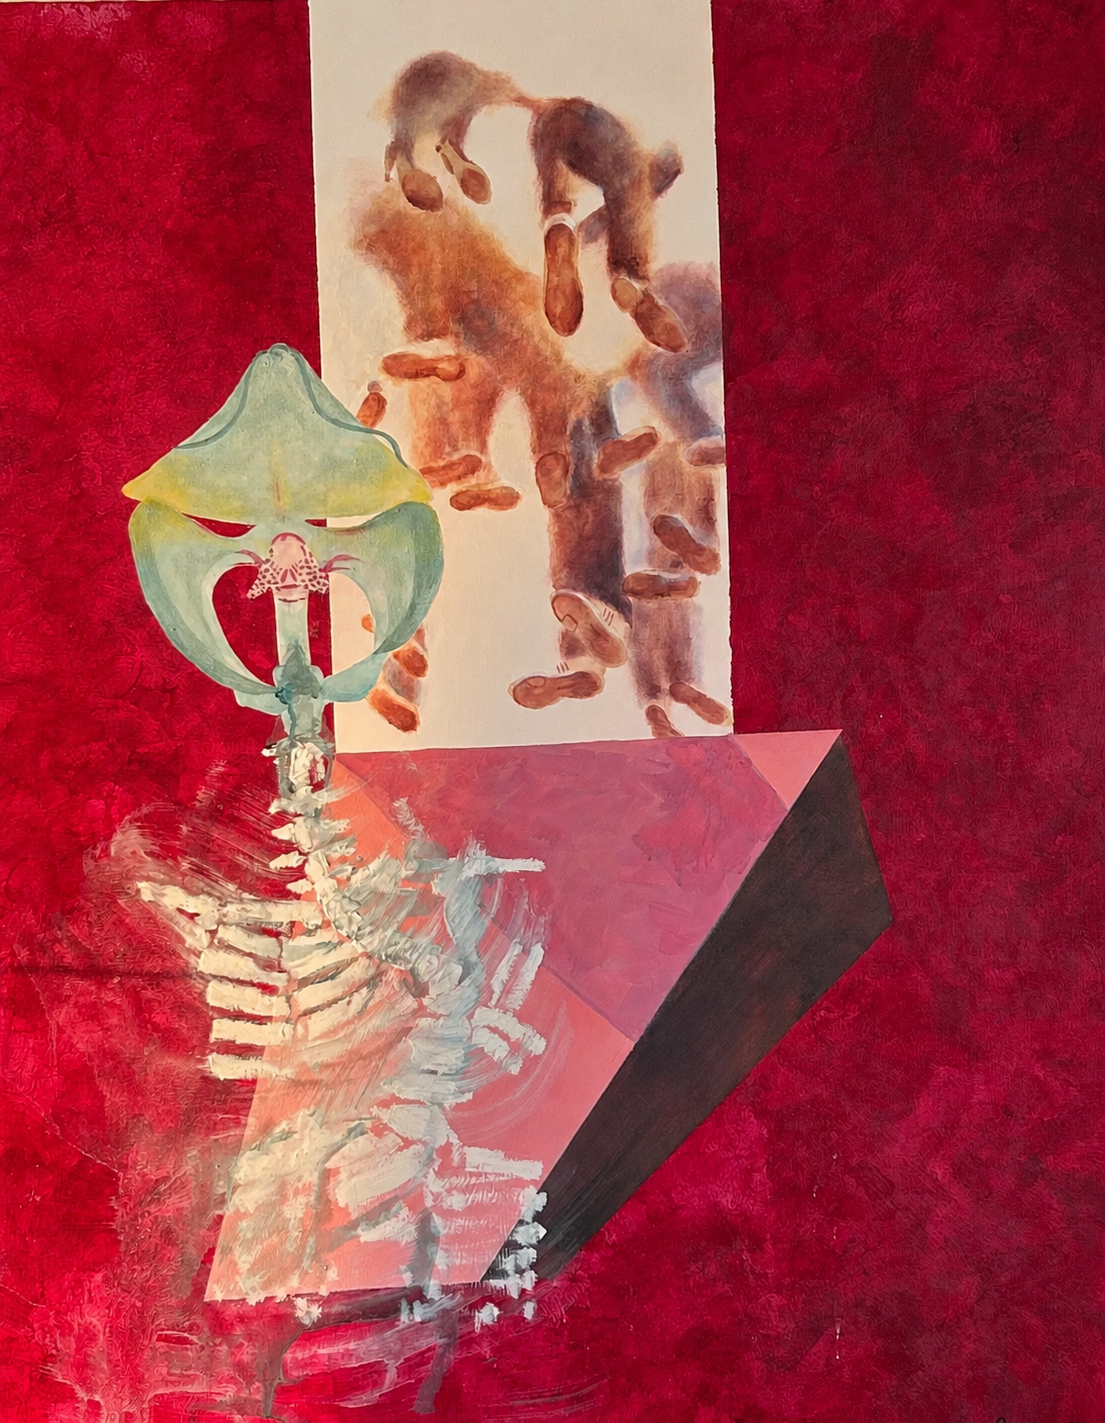
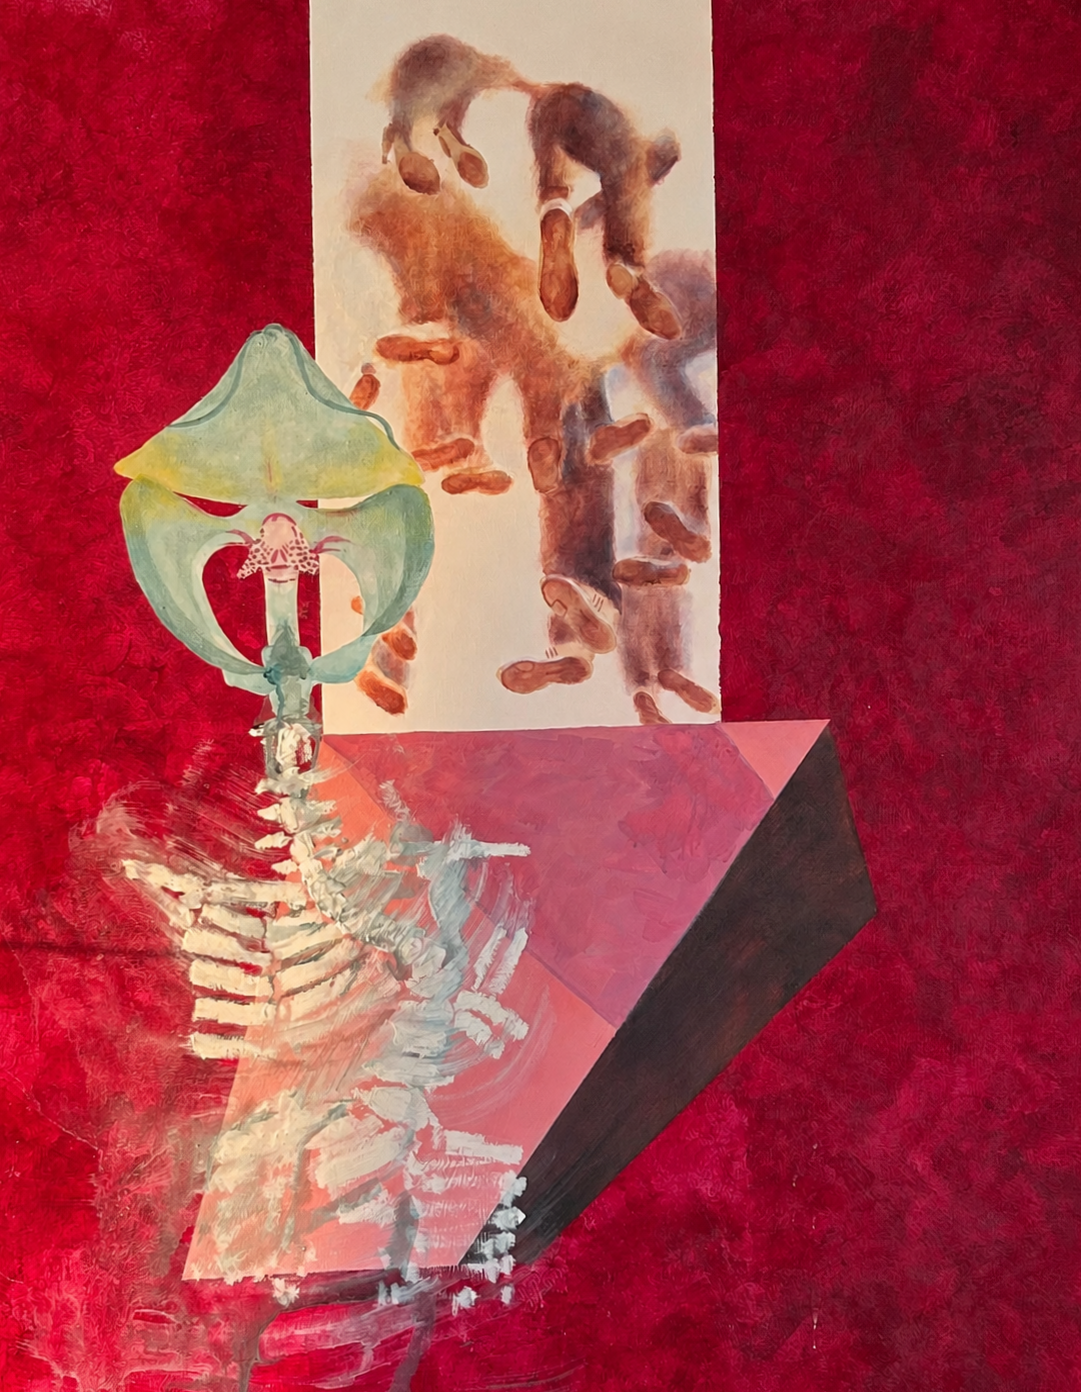
Add files via upload

diff --git a/index.html b/index.html
@@ -47,22 +47,22 @@
         </figure>
       </article>
 
-      <article class="work work-tall">
-        <figure>
-          <img src="images/Angel-2.jpg" alt="Angel 2 by Samina Ulani" loading="lazy">
-          <figcaption>
-            <span>Angel 2</span>
-            <span>Oil on canvas · 2025 · 101 × 139 cm</span>
-          </figcaption>
-        </figure>
-      </article>
-
       <article class="work work-wide">
         <figure>
           <img src="images/Beneath.png" alt="Beneath by Samina Ulani" loading="lazy">
           <figcaption>
             <span>Beneath</span>
             <span>Oil on canvas · 2026 · 90 × 60 cm</span>
+          </figcaption>
+        </figure>
+      </article>
+
+      <article class="work work-tall">
+        <figure>
+          <img src="images/Angel-2.jpg" alt="Angel 2 by Samina Ulani" loading="lazy">
+          <figcaption>
+            <span>Angel 2</span>
+            <span>Oil on canvas · 2025 · 101 × 139 cm</span>
           </figcaption>
         </figure>
       </article>
@@ -80,9 +80,7 @@
 
     <section id="about" class="about">
       <div class="about-image">
-        <div class="portrait-placeholder">
-          <span>Portrait<br>coming soon</span>
-        </div>
+        <img class="artist-portrait" src="images/Samina-Ulani-portrait.jpg" alt="Samina Ulani painting in her studio" loading="lazy">
       </div>
       <div class="about-copy">
         <p class="eyebrow">About</p>

diff --git a/style.css b/style.css
@@ -120,13 +120,13 @@ figcaption span:first-child { color: var(--text); }
 }
 
 .work-tall {
-  grid-column: 8 / 13;
-  margin-top: -4vw;
+  grid-column: 7 / 13;
+  margin-top: -1vw;
 }
 
 .work-wide {
-  grid-column: 2 / 7;
-  margin-top: 5vw;
+  grid-column: 9 / 13;
+  margin-top: 10vw;
 }
 
 .work-resistencia {
@@ -146,20 +146,16 @@ figcaption span:first-child { color: var(--text); }
 }
 
 .about-image {
-  width: min(100%, 300px);
+  width: min(100%, 420px);
   justify-self: center;
 }
 
-.portrait-placeholder {
+.artist-portrait {
+  display: block;
+  width: 100%;
   aspect-ratio: 4 / 5;
-  border: 1px solid #333;
-  display: grid;
-  place-items: center;
-  color: #555;
-  font-size: 10px;
-  text-transform: uppercase;
-  letter-spacing: .14em;
-  text-align: center;
+  object-fit: cover;
+  object-position: 35% center;
 }
 
 .about-copy { max-width: 620px; }
@@ -234,13 +230,13 @@ footer {
   }
 
   .work:nth-child(3) {
-    width: 74%;
-    margin-right: auto !important;
+    width: 64%;
+    margin-left: auto !important;
   }
 
   .work:nth-child(4) {
-    width: 70%;
-    margin-left: 8% !important;
+    width: 76%;
+    margin-right: auto !important;
   }
 
   .work:nth-child(5) {
@@ -264,8 +260,8 @@ footer {
   }
 
   .about-image {
-    width: 48%;
-    margin: 0 0 18vw 12%;
+    width: 62%;
+    margin: 0 0 18vw 0;
   }
 
   .about-copy { max-width: none; }
